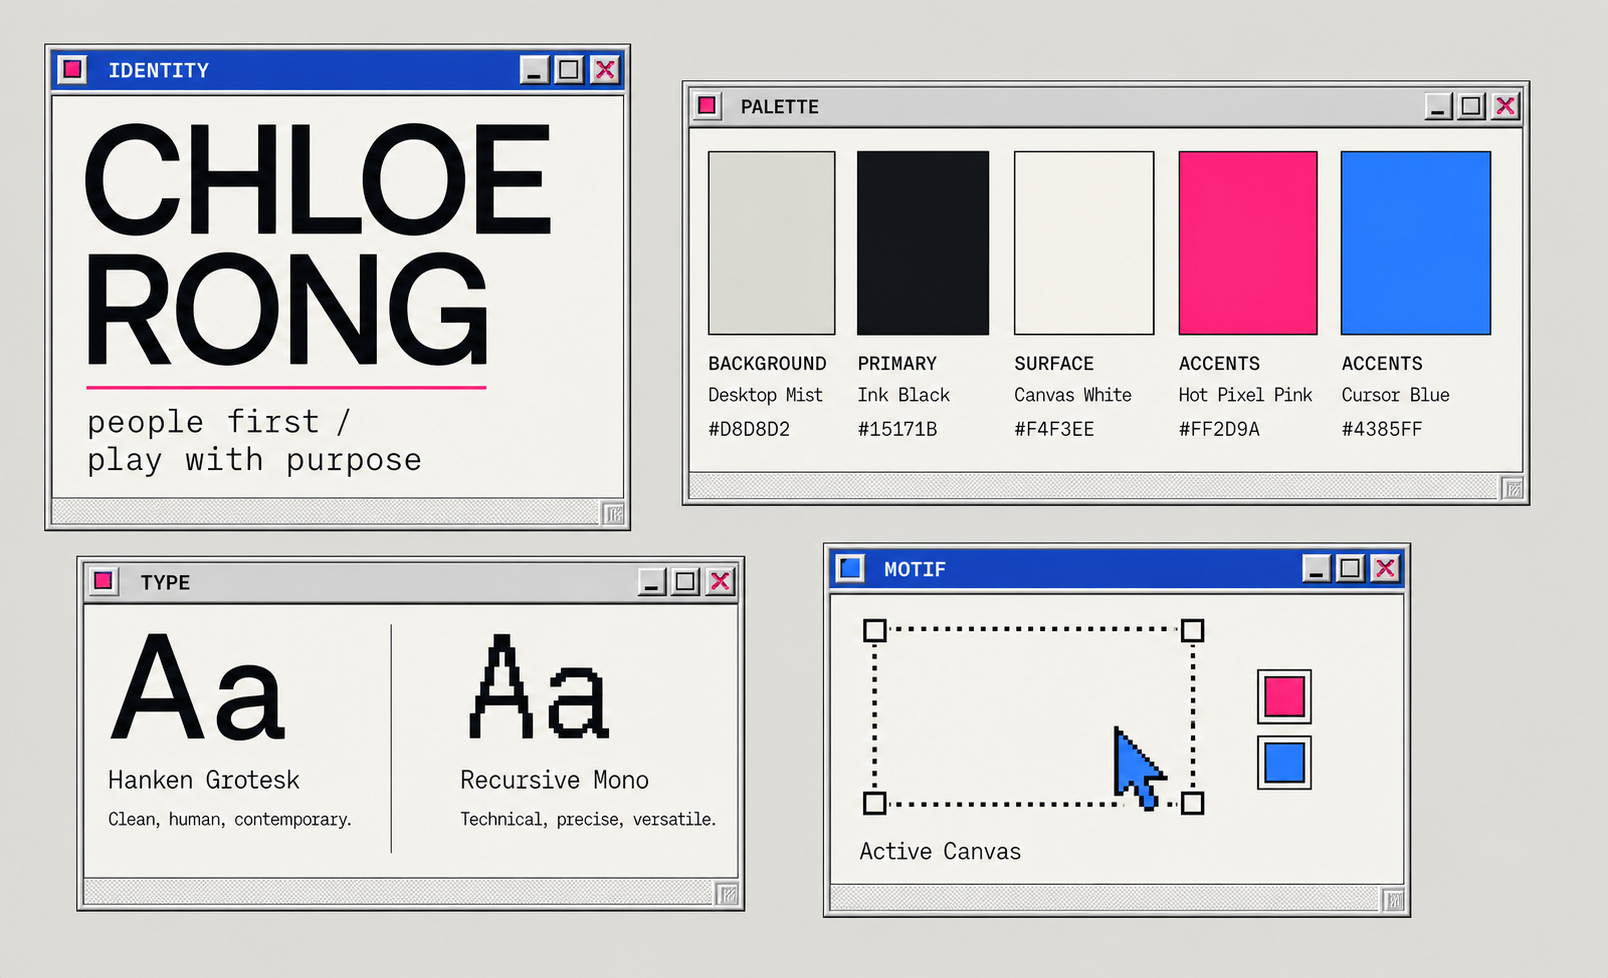
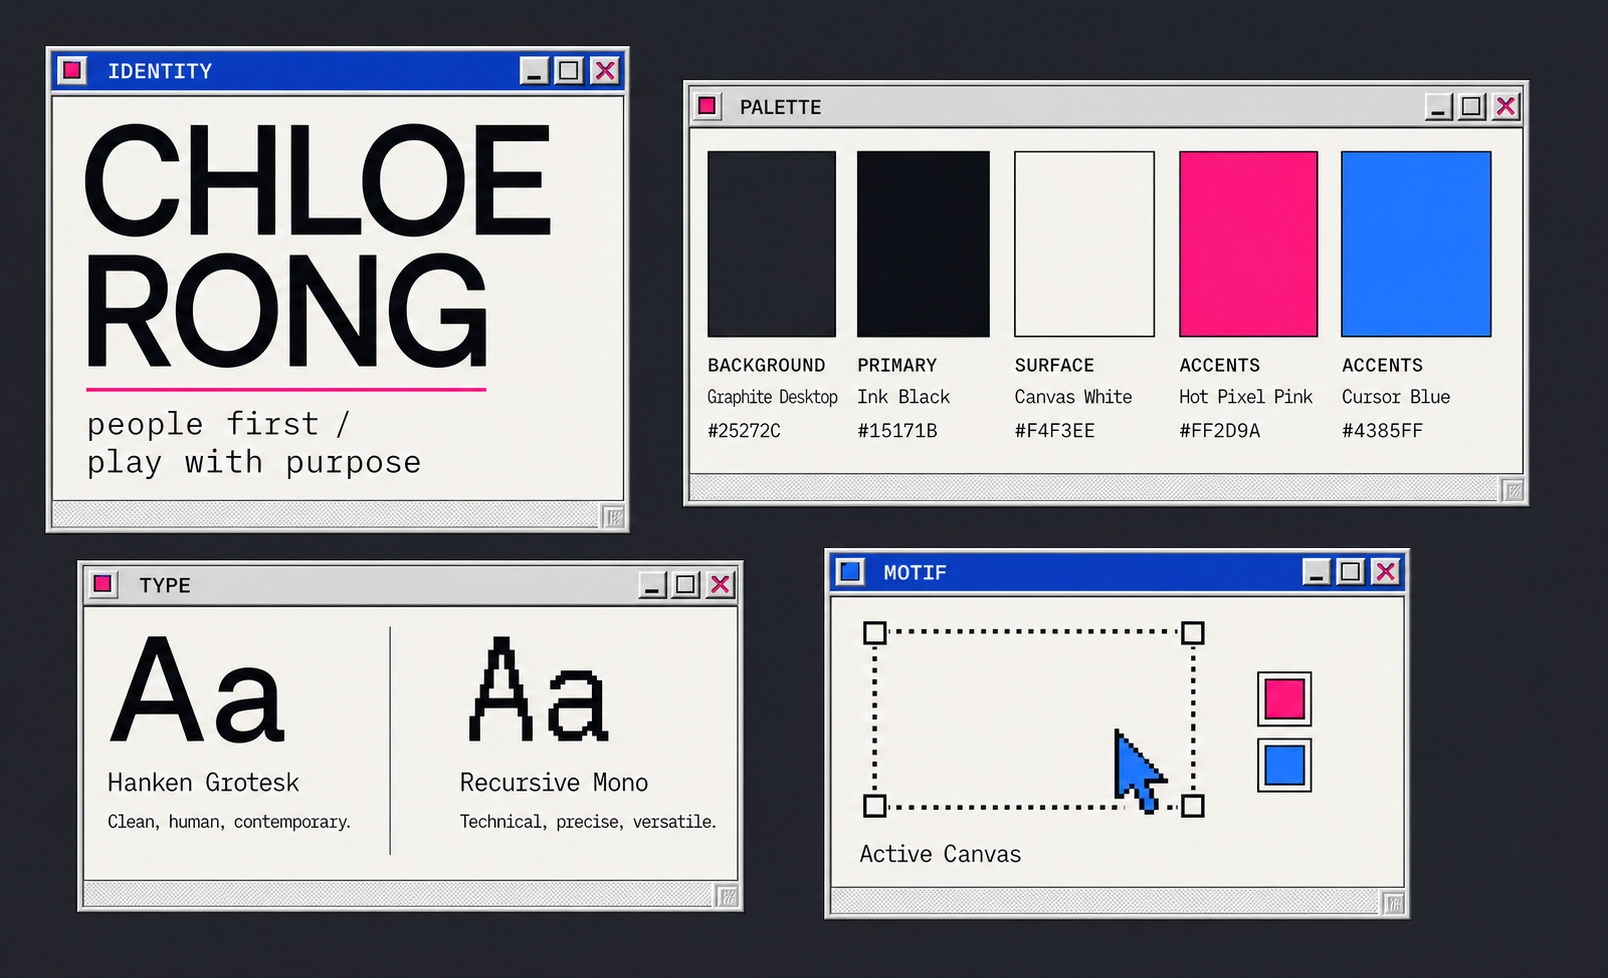
Darken desktop behind light retro windows

diff --git a/design/README.md b/design/README.md
@@ -7,10 +7,10 @@ These notes identify transferable qualities, not a chosen visual direction. Chlo
 ## Confirmed direction inputs
 
 - **Visual lane:** Playful tactile collage leads personal areas of the portfolio; cinematic editorial poster qualities shape the presentation of work.
-- **Color strategy:** A primarily neutral, light site uses Desktop Mist and Canvas White with Ink Black, while Hot Pixel Pink and Cursor Blue carry the colorful accents.
+- **Color strategy:** A dark Graphite Desktop surrounds light Canvas White retro windows with Ink Black content, while Hot Pixel Pink and Cursor Blue carry the colorful accents.
 - **Atmosphere:** Experimental and playful without becoming overly energetic.
 - **Interaction:** Interactions should feel intentional and respond to deliberate user input rather than animate constantly or compete for attention.
-- **Section grammar:** Distinct content areas should use single, accurately constructed retro-computer windows on a light desktop: beveled frames, active and inactive title bars, compact controls, inset workspaces, and status strips without doubled backing layers.
+- **Section grammar:** Distinct content areas should use single, accurately constructed light retro-computer windows on a dark desktop: beveled frames, active and inactive title bars, compact controls, inset workspaces, and status strips without doubled backing layers.
 
 ## `emmi-wu-homepage.png`
 
